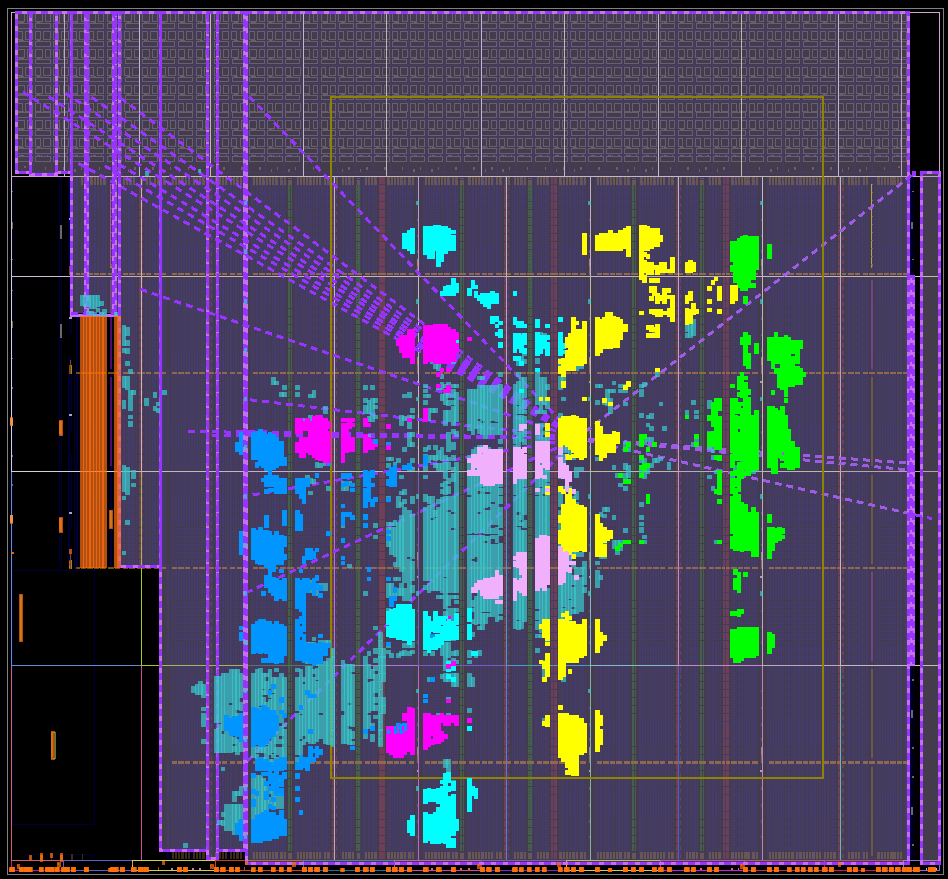
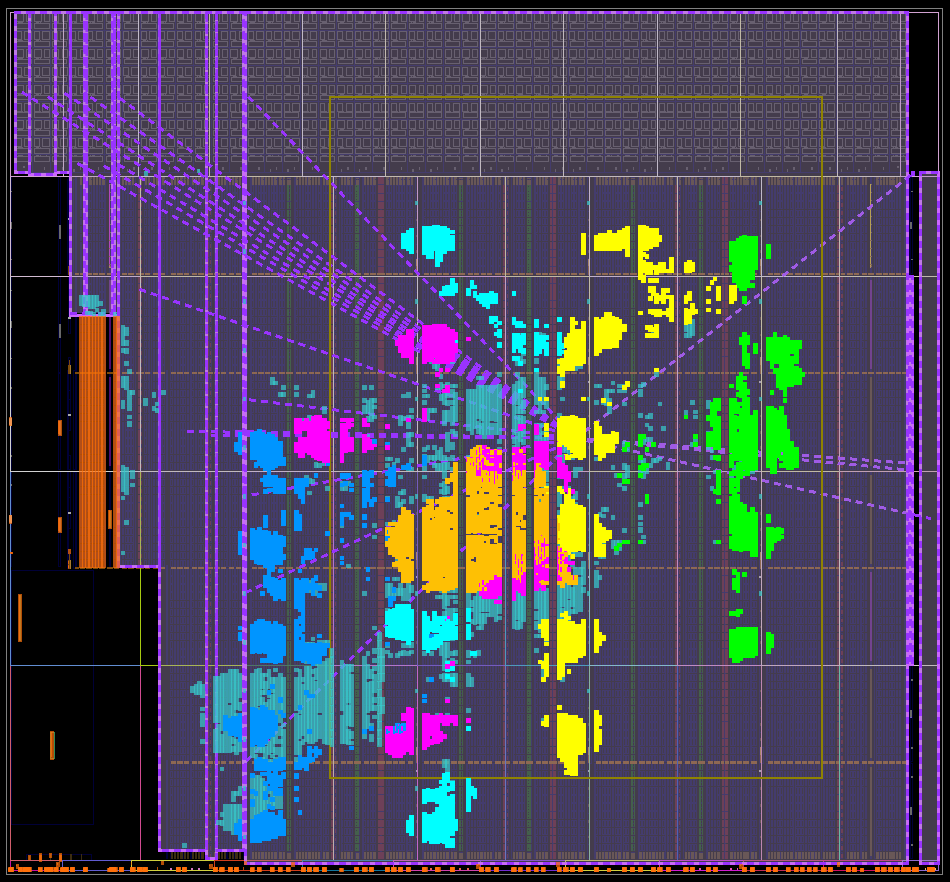
Minor improvements to visualization

diff --git a/README.md b/README.md
@@ -24,6 +24,7 @@ The startup latency (so latency between a read request being made, and the first
 
 #### Multi-reader bandwidth
 (Combined from 512-bit@320MHz and 256-bit@348MHz benchmarks)
+
 | #parallel | 512-bit BW (GB/s) | 256-bit BW (GB/s) |
 | --- | --- | --- |
 | 1   | 13.5623 | 10.4925 |
@@ -50,6 +51,7 @@ The startup latency (so latency between a read request being made, and the first
 | 22  | 51.6131 |   N/A   |
 | 23  | 52.3697 |   N/A   |
 | 24  | 47.9105 |   N/A   |
+
 (we're simply starting from kernel #1, and adding kernels sequentially)
 
 Total bandwidth does tend to increase with more readers, but some conflicts seem to cut the bandwidth significantly (Such as 256-bit/11 parallel). 
@@ -64,9 +66,9 @@ It appears that NoC interfaces on the same Vertical NoC conflict. Worse - NoC in
 #### Number of hard-logic NoC connection points: 23
 If more memory masters than this are instantiated, programmable logic "virtual" NoC switches are instantiated. Single-interface bandwidth appears maintained, but multi-interface bandwidth on the same virtual NoC suffers tremendously. Recommendation: **Don't exceed 23 Interfaces**
 
-![Programmable Logic NoC](measurements/24x512_noc.png) (Observe the NoC endpoint isn't directly connected to the two pink kernels - Kernel 1 and 24 - the worst pairing in the conflicts benchmark)
+![Programmable Logic NoC](measurements/24x512_noc.png)
+Observe the NoC endpoint isn't directly connected to the two pink kernels - Kernel 1 and 24 - the worst pairing in the conflicts benchmark. Instead, the large blob of orange logic is the virtual extension to the NoC, which both kernels then connect to. 
 
 ### Misc
-#### Around 460MHz 256-bit AXI readers attain identical bandwidth to 512-bit readers. 
-
-#### ArCACHE[1] bit does not seem to have an effect
+- **Around 460MHz 256-bit AXI readers attain identical bandwidth to 512-bit readers**
+- **ArCACHE[1] bit does not seem to have an effect**

diff --git a/measurements/24x512.md b/measurements/24x512.md
@@ -4,35 +4,36 @@
 (Upper matrix is Bandwidths in GB/s, lower matrix is cycle usage efficiency)
 ![24x512_die.png](24x512_die.png)
 ![24x512_noc.png](24x512_noc.png)
-(Observe Kernel 1 & 24 are not directly connected to a NoC interface - rather they are on a separate VNoC connecting to a shared interface)
+(Observe Kernel 1 & 24 are not directly connected to a NoC interface - rather they are on a virtual NoC (orange region), which is connected to a shared interface)
 ![24x512_legend.png](24x512_legend.png)
 
 | #parallel | Total Bandwidth (GB/s) |
 | --- | --- |
 | 1   | 13.5623 |
-| 2   | 25.1748 | 
-| 3   | 22.0688 | 
-| 4   | 29.2881 | 
-| 5   | 25.6728 | 
-| 6   | 17.7485 | 
-| 7   | 27.5624 | 
-| 8   | 31.4736 | 
-| 9   | 35.4239 | 
-| 10  | 39.2506 | 
-| 11  | 42.9778 | 
-| 12  | 46.4071 | 
-| 13  | 47.063  | 
-| 14  | 50.8537 | 
-| 15  | 54.0014 | 
-| 16  | 47.826  | 
-| 17  | 44.5466 | 
-| 18  | 46.6465 | 
-| 19  | 47.7573 | 
-| 20  | 49.944  | 
-| 21  | 52.1049 | 
-| 22  | 51.6131 | 
-| 23  | 52.3697 | 
-| 24  | 47.9105 | 
+| 2   | 25.1748 |
+| 3   | 22.0688 |
+| 4   | 29.2881 |
+| 5   | 25.6728 |
+| 6   | 17.7485 |
+| 7   | 27.5624 |
+| 8   | 31.4736 |
+| 9   | 35.4239 |
+| 10  | 39.2506 |
+| 11  | 42.9778 |
+| 12  | 46.4071 |
+| 13  | 47.063  |
+| 14  | 50.8537 |
+| 15  | 54.0014 |
+| 16  | 47.826  |
+| 17  | 44.5466 |
+| 18  | 46.6465 |
+| 19  | 47.7573 |
+| 20  | 49.944  |
+| 21  | 52.1049 |
+| 22  | 51.6131 |
+| 23  | 52.3697 |
+| 24  | 47.9105 |
+
 (we're simply starting from kernel #1, and adding kernels sequentially)
 
 ## Raw Log

diff --git a/measurements/20x256.md b/measurements/20x256.md
@@ -12,25 +12,26 @@ This case isn't so clear-cut as the 512-bit case. Certainly because the Bandwidt
 | #parallel | Total Bandwidth (GB/s) |
 | --- | --- |
 | 1   | 10.4925 |
-| 2   | 20.9844 | 
-| 3   | 27.6769 | 
-| 4   | 33.6021 | 
-| 5   | 31.8993 | 
-| 6   | 37.9892 | 
-| 7   | 44.2615 | 
-| 8   | 48.7837 | 
-| 9   | 44.8638 | 
-| 10  | 49.1469 | 
-| 11  | 29.0227 | 
-| 12  | 46.3362 | 
-| 13  | 48.4111 | 
-| 14  | 50.2339 | 
-| 15  | 53.9341 | 
-| 16  | 53.3576 | 
-| 17  | 56.3916 | 
-| 18  | 57.1011 | 
-| 19  | 54.6633 | 
-| 20  | 56.767  | 
+| 2   | 20.9844 |
+| 3   | 27.6769 |
+| 4   | 33.6021 |
+| 5   | 31.8993 |
+| 6   | 37.9892 |
+| 7   | 44.2615 |
+| 8   | 48.7837 |
+| 9   | 44.8638 |
+| 10  | 49.1469 |
+| 11  | 29.0227 |
+| 12  | 46.3362 |
+| 13  | 48.4111 |
+| 14  | 50.2339 |
+| 15  | 53.9341 |
+| 16  | 53.3576 |
+| 17  | 56.3916 |
+| 18  | 57.1011 |
+| 19  | 54.6633 |
+| 20  | 56.767  |
+
 (we're simply starting from kernel #1, and adding kernels sequentially)
 
 ## Raw Log
